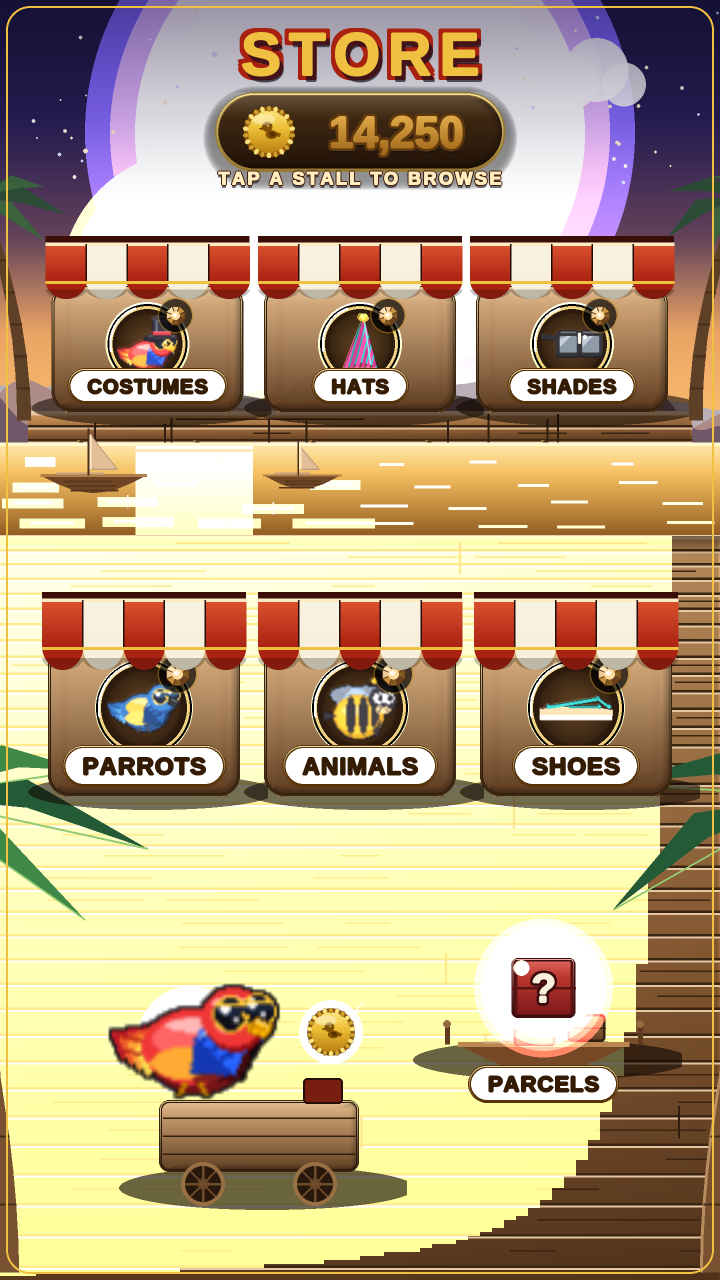
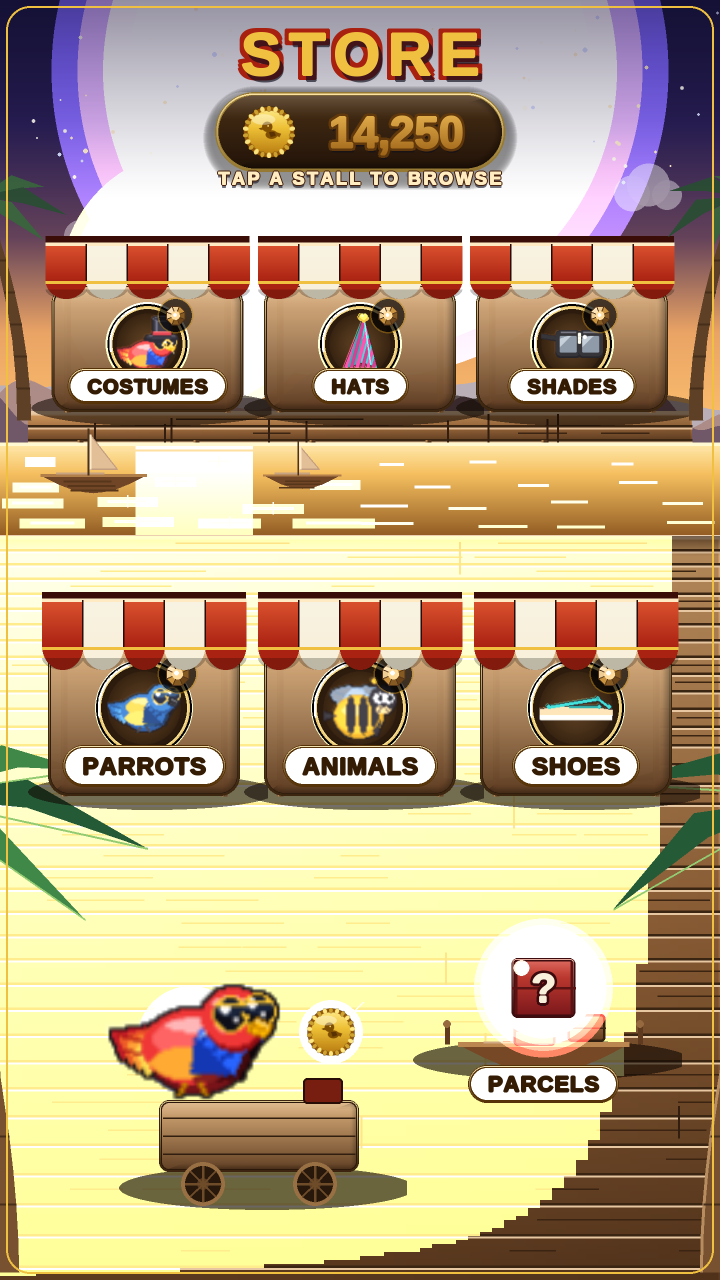
docs(store_bazaar): sky_galleon round-1 concept mockup
Claude-Session: https://claude.ai/code/session_01VWgQuAkvyxHkg8ghp6aQ5y

Changed region(s): [[0.7639, 0.0, 0.9472, 0.1875], [0.0611, 0.0, 0.2444, 0.1875], [0.6111, 0.2812, 0.6722, 0.3125]]

diff --git a/docs/store_bazaar/lagoon_stilt/render.py b/docs/store_bazaar/lagoon_stilt/render.py
@@ -64,8 +64,11 @@ SKY_STOPS = [
     (0.78, (255, 196, 112)),     # the low sun core (brief anchor)
     (0.86, (255, 214, 140)),     # hottest band right above the water
 ]
-SUN_CORE = (255, 238, 196)
-SUN_HALO = (255, 188, 96)
+# A warm SATURATED gold disc, not a blown-white core — the back row must read
+# against sky, not glare, so the core stays a rich gold and the halo restrained.
+SUN_CORE = (255, 210, 130)
+SUN_HALO = (255, 176, 88)
+SUN_AURA = (255, 150, 78)        # warm aura behind Pip on the jetty
 
 # Lagoon water — gold sun-glitter band over a deep teal-violet bed so the warm
 # top reflection sits on cool depth (the classic golden-hour-on-water read).
@@ -163,11 +166,15 @@ def _build_static_sky():
     sky = pygame.Surface((DW, DH))
     sky.blit(multistop_v(DW, DH, SKY_STOPS), (0, 0))
 
-    # the low golden-hour sun, raked toward the top-left light origin
-    sx, sy = int(DW * 0.30), int(DH * 0.30)
-    soft_glow(sky, sx, sy, m(150), SUN_HALO, 70, layers=12)
-    soft_glow(sky, sx, sy, m(64), SUN_CORE, 150, layers=10)
-    pygame.draw.circle(sky, SUN_CORE, (sx, sy), m(26))
+    # the low golden-hour sun: a warm saturated gold disc ~38% smaller than R1
+    # and dropped LOWER so it sits behind the rooflines, with a RESTRAINED halo
+    # so the back row reads against sky instead of a white glare. No white core.
+    sx, sy = int(DW * 0.30), int(DH * 0.355)
+    soft_glow(sky, sx, sy, m(96), SUN_HALO, 46, layers=12)
+    soft_glow(sky, sx, sy, m(40), SUN_CORE, 110, layers=10)
+    pygame.draw.circle(sky, SUN_CORE, (sx, sy), m(16))
+    # a tiny hotter pip so the disc still has a sun centre (kept warm, not white)
+    pygame.draw.circle(sky, (255, 226, 168), (sx - m(2), sy - m(2)), m(7))
 
     # emerging dusk stars — only in the upper indigo band, fading out before the
     # warm haze so they never sparkle over daylight.
@@ -193,6 +200,18 @@ def _build_static_sky():
         pygame.draw.line(stars, col, (x - L, y), (x + L, y), max(1, m(0.7)))
         pygame.draw.line(stars, col, (x, y - L), (x, y + L), max(1, m(0.7)))
     sky.blit(stars, (0, 0), special_flags=pygame.BLEND_ADD)
+
+    # back-row scrim: a soft cool atmospheric band across the lower sky (where
+    # the back row's thatch ridges sit) so COSTUMES/ANIMALS/HATS read against
+    # dusky sky, not against the sun's glow. A gentle dusk haze, peaking just
+    # under the back-row rooflines and feathering out top + bottom.
+    scrim = pygame.Surface((DW, DH), pygame.SRCALPHA)
+    s0, s1 = 0.36, 0.50          # the back-row roofline band
+    for y in range(int(s0 * DH), int(s1 * DH)):
+        t = (y - s0 * DH) / ((s1 - s0) * DH)
+        a = int(78 * math.sin(t * math.pi) ** 0.9)
+        pygame.draw.line(scrim, (40, 38, 78, a), (0, y), (DW, y))
+    sky.blit(scrim, (0, 0))
 
     # distant hazy islets sitting on the waterline (depth cue behind the huts)
     horizon = int(DH * 0.485)
@@ -732,13 +751,16 @@ def _balance_capsule(surf, cx, y):
 # Each hut's deck sits on the lagoon; back-to-front draw order gives depth.
 LAYOUT = [
     # group,      cx fraction, deck_y fraction, scale, hero
-    ("costume",  0.180, 0.605, 0.68, False),   # back-left
-    ("animal",   0.500, 0.592, 0.68, False),   # back-centre
-    ("hats",     0.820, 0.605, 0.68, False),   # back-right
-    ("parrot",   0.165, 0.792, 0.84, False),   # mid-left
-    ("shoes",    0.835, 0.792, 0.84, False),   # mid-right
-    ("shades",   0.500, 0.735, 0.76, False),   # mid-centre, tucked slightly back
-    ("parcels",  0.500, 0.870, 1.00, True),    # hero jetty, frontmost
+    # Back row dropped lower + mid row pushed down so each roof ridge clears the
+    # eaves of the hut behind it (no row clipping); hero lifted ~14px so its
+    # name board gets a clean horizontal lane.
+    ("costume",  0.180, 0.628, 0.68, False),   # back-left
+    ("animal",   0.500, 0.616, 0.68, False),   # back-centre
+    ("hats",     0.820, 0.628, 0.68, False),   # back-right
+    ("parrot",   0.165, 0.808, 0.84, False),   # mid-left
+    ("shoes",    0.835, 0.808, 0.84, False),   # mid-right
+    ("shades",   0.500, 0.752, 0.76, False),   # mid-centre, tucked slightly back
+    ("parcels",  0.500, 0.848, 1.00, True),    # hero jetty, frontmost
 ]
 LABELS = {g: lbl for g, lbl in STALLS}
 

diff --git a/docs/store_bazaar/sky_bazaar/render.py b/docs/store_bazaar/sky_bazaar/render.py
@@ -633,22 +633,33 @@ def draw_pip(surf, cx, cy, scale):
     pip = pygame.transform.smoothscale(
         frame, (max(1, int(fw * s)), max(1, int(fh * s))))
 
-    # a clear FOCAL SPOTLIGHT so Pip is unmistakably the hero of the frame: a
-    # warm-gold aura grading to a tight hot core under him, kept compact so it
-    # crowns the bird without bleeding onto the neighbouring stall labels.
-    soft_glow(surf, cx, cy + int(target * 0.16), int(target * 0.74),
-              (255, 196, 108), 60, layers=14)
-    soft_glow(surf, cx, cy, int(target * 0.48), (255, 230, 168), 50, layers=10)
-    soft_glow(surf, cx, cy - int(target * 0.04), int(target * 0.26),
-              (255, 248, 220), 44, layers=8)
+    # a soft indigo back-scrim directly behind Pip so his silhouette never breaks
+    # up against a bright white cloud crown — the warm aura then reads on a calm
+    # dark ground and his scarlet body stays 100% legible.
+    scrim = pygame.Surface((target * 2, target * 2), pygame.SRCALPHA)
+    sc = target
+    for i in range(12, 0, -1):
+        rr = int(target * 0.70 * i / 12)
+        a = int(120 * (1 - (i - 1) / 12) ** 1.7)
+        if rr <= 0 or a <= 0:
+            continue
+        pygame.draw.circle(scrim, (16, 14, 40, a), (sc, sc), rr)
+    surf.blit(scrim, (cx - sc, cy - sc))
+
+    # a TIGHT hot warm-gold focal core with a clean falloff (no broad grey outer
+    # ring that mushed into the cloud crown in round 2) so Pip reads as the hero
+    # without his halo bleeding onto the platform behind him.
+    soft_glow(surf, cx, cy, int(target * 0.50), (255, 198, 110), 62, layers=12)
+    soft_glow(surf, cx, cy, int(target * 0.30), (255, 234, 178), 56, layers=9)
 
     # a soft hover shadow drifting below (sells the float)
     shadow = pygame.Surface((target, int(target * 0.4)), pygame.SRCALPHA)
     pygame.draw.ellipse(shadow, (20, 12, 34, 90), shadow.get_rect())
     surf.blit(shadow, (cx - target // 2, cy + int(target * 0.62)))
 
-    # a few motion-sparkle coins drifting up around him (the vendor's coins)
-    for ang, rr, cr in ((-40, 0.62, 7), (210, 0.7, 6), (150, 0.55, 5)):
+    # two motion-sparkle vendor coins drifting up beside him (trimmed from three;
+    # the third sat too close to the neighbouring nameplate edge).
+    for ang, rr, cr in ((-42, 0.66, 7), (208, 0.72, 6)):
         px = cx + int(math.cos(math.radians(ang)) * target * rr)
         py = cy + int(math.sin(math.radians(ang)) * target * rr)
         soft_glow(surf, px, py, m(7), (255, 208, 110), 55, layers=5)
@@ -656,7 +667,7 @@ def draw_pip(surf, cx, cy, scale):
 
     r = pip.get_rect(center=(cx, cy))
     # crisp top-left rim light so the macaw pops off the twilight sky
-    rim = C._rim_light(pip, alpha=150)
+    rim = C._rim_light(pip, alpha=195)
     surf.blit(rim, r.topleft, special_flags=pygame.BLEND_ADD)
     surf.blit(pip, r.topleft)
 
@@ -766,7 +777,7 @@ SLOTS = [
     (258, 522, 58, 0.92),   # SHADES    (lower-right)
     (180, 582, 70, 1.06),   # PARCELS   (centre foot — treasure anchor)
 ]
-PIP_SLOT = (180, 362, 1.16)     # Pip hovers dead-centre, between the columns
+PIP_SLOT = (180, 344, 1.16)     # Pip hovers dead-centre, lifted clear of crowns
 
 
 def render_device():

diff --git a/docs/store_bazaar/dock_market/render.py b/docs/store_bazaar/dock_market/render.py
@@ -191,9 +191,10 @@ def draw_sky(surf):
                        (1.00, GH_LOW)], 255, gamma=1.04)
     surf.blit(sky, (0, 0))
     # the constellation central violet bloom near the top so the jewel-store
-    # nebula is already present above the market line.
-    soft_glow(surf, int(DW * 0.5), int(horizon_y * 0.30), m(150),
-              NEBULA_GLOW, 40, layers=12)
+    # nebula is already present above the market line — kept restrained + high so
+    # it never rings into a rainbow halo behind the wordmark.
+    soft_glow(surf, int(DW * 0.5), int(horizon_y * 0.16), m(180),
+              NEBULA_GLOW, 26, layers=14)
     # a sparse high starfield in the indigo ceiling only (fades out before the
     # warm band) — the jewel-store sky bleeding through the dusk.
     _draw_high_stars(surf, horizon_y)
@@ -212,11 +213,15 @@ def draw_sky(surf):
                    far_color=lerp_color(PAL["mtn_far"], GH_LOW, 0.35),
                    near_color=lerp_color(PAL["mtn_near"], (180, 120, 80), 0.3))
 
-    # two small clouds catching the low light, kept HIGH so they never drift over
-    # the stall band or the water glitter, tinted warm.
-    for x, y, sc, v in ((m(96), m(58), SS * 0.78, 2),
-                        (m(286), m(40), SS * 0.62, 3)):
-        draw_cloud(surf, x, y, scale=sc, variant=v)
+    # two small clouds catching the low light, pushed to the upper CORNERS (clear
+    # of the wordmark) + dimmed so they read as distant haze, not a white bloom
+    # behind the title.
+    cl = pygame.Surface((DW, horizon_y), pygame.SRCALPHA)
+    for x, y, sc, v in ((m(40), m(116), SS * 0.5, 2),
+                        (m(316), m(96), SS * 0.42, 3)):
+        draw_cloud(cl, x, y, scale=sc, variant=v)
+    cl.set_alpha(120)
+    surf.blit(cl, (0, 0))
 
 
 def _draw_high_stars(surf, horizon_y):
